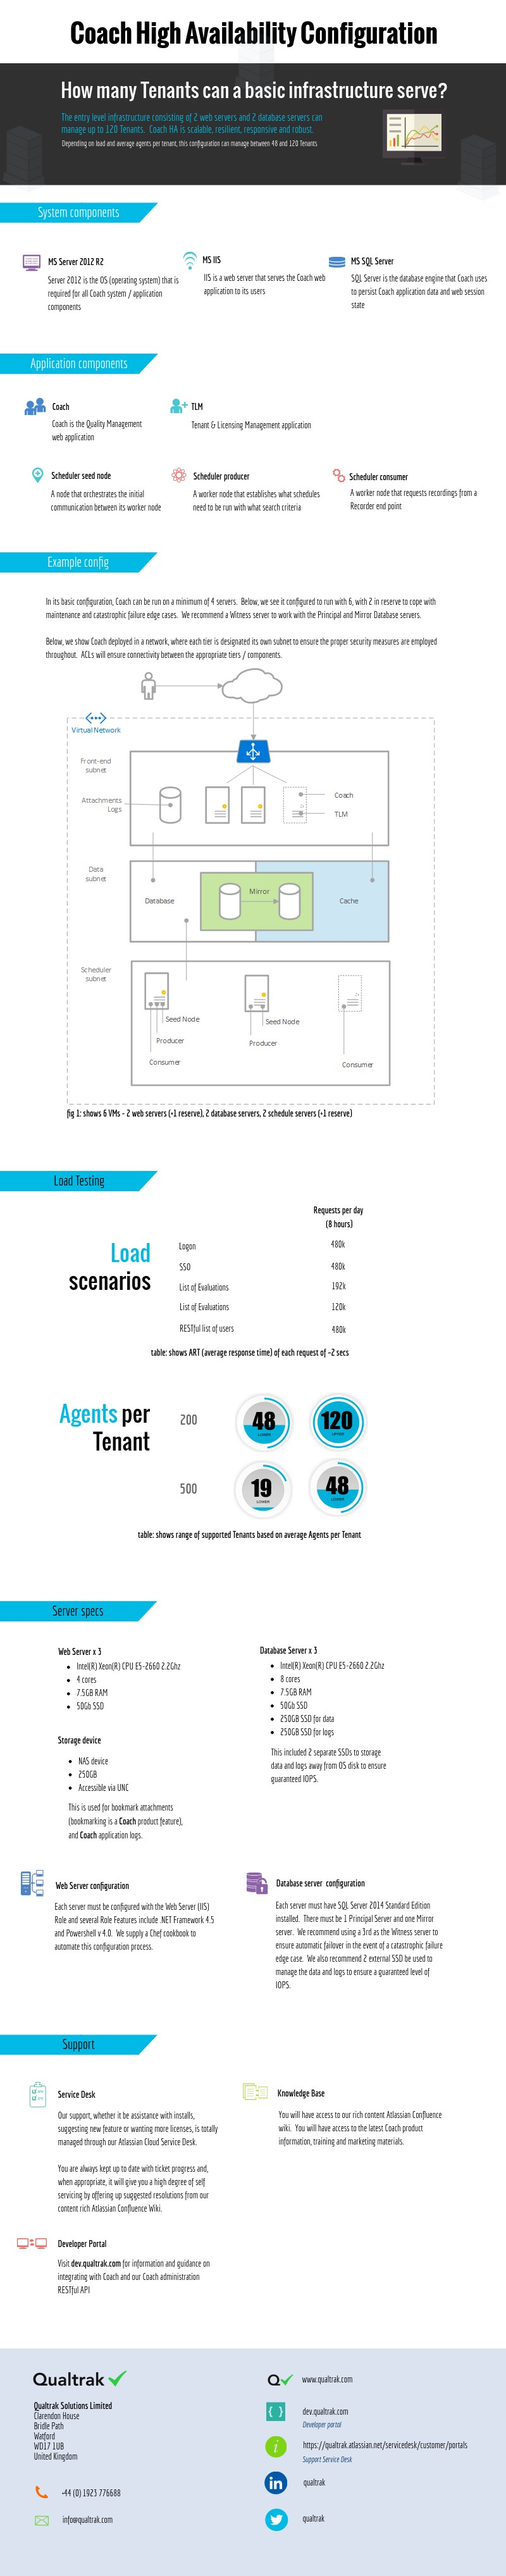
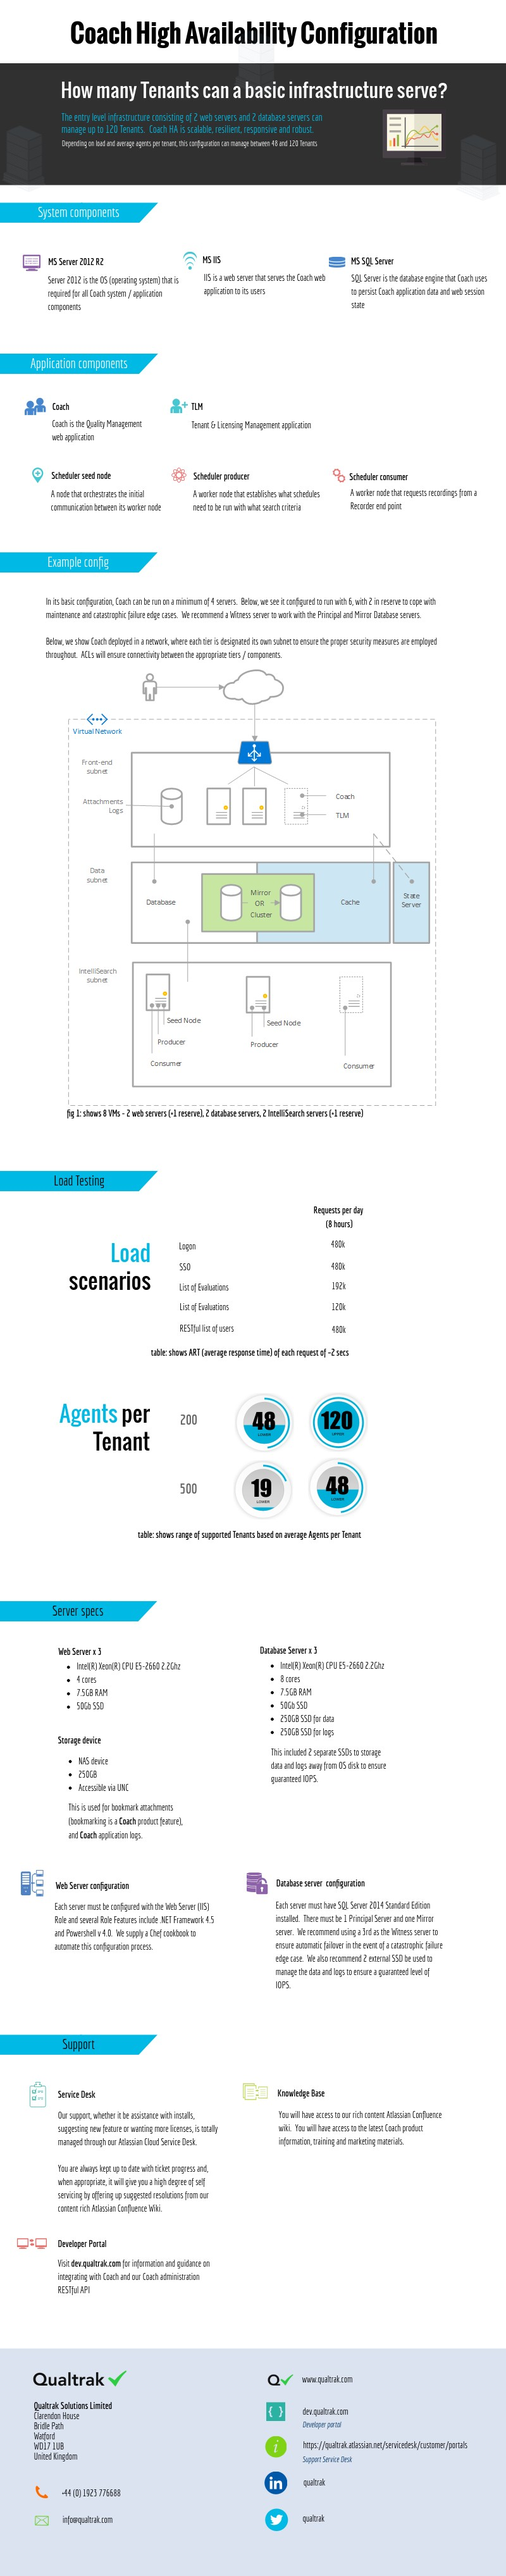
Updated infographic & release history

diff --git a/documentation/source/poco.rst b/documentation/source/poco.rst
@@ -6,7 +6,7 @@ These are the classes the the RESTful implementation depends on.  These ``classe
 
 .. important::
 
-    When returning the filename of the media back to Coach, you must only include the **filename.ext** (e.g. ``agent201506211015.wav``) and not the absolute filepath or url. Coach generates the url from the information provided in the **Recorder Media** configuration page
+    When returning the ``FileName`` of the media back to Coach, you must only include the **filename.ext** (e.g. ``agent201506211015.wav``) and not the absolute filepath or url. Coach generates the url from the information provided in the **Recorder Media** configuration page
 
 .. _RecorderUser-label:
 

diff --git a/documentation/source/releasehistory.rst b/documentation/source/releasehistory.rst
@@ -1,7 +1,13 @@
 Release History
 ===============
 
-1.0.0 (2015-08-??)
+1.0.0 (2015-11-16)
 ------------------
 
-* Initial release as an OSS project with **Coach 5.2**
+* Official 1.0 release 
+* Included extra content based on feedback from partners
+
+0.1.0 (2015-08-17)
+------------------
+
+* Initial release as an OSS project with **Coach 6.0**

diff --git a/documentation/source/license.rst b/documentation/source/license.rst
@@ -1,4 +1,6 @@
+=======
 License
+=======
 
 The MIT License (MIT)
 
